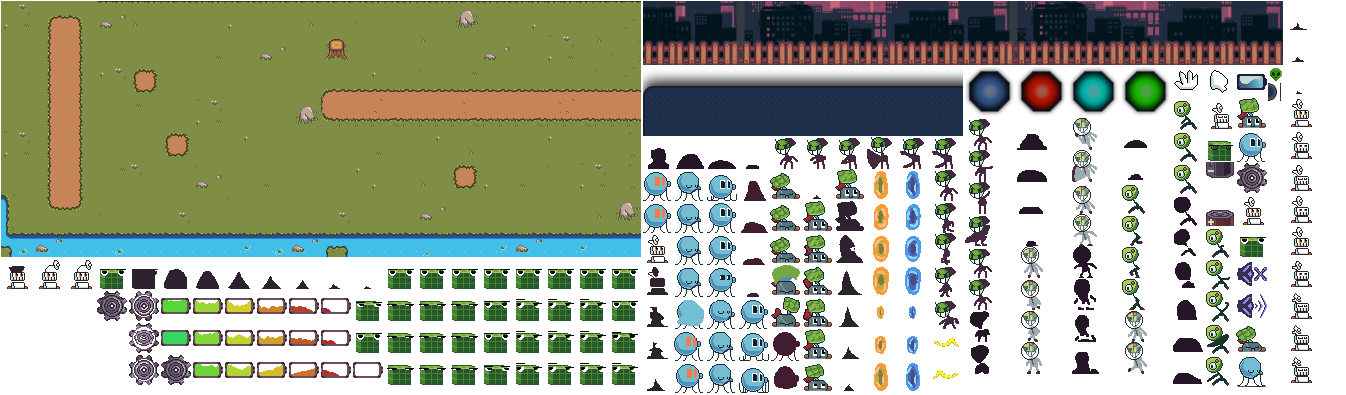
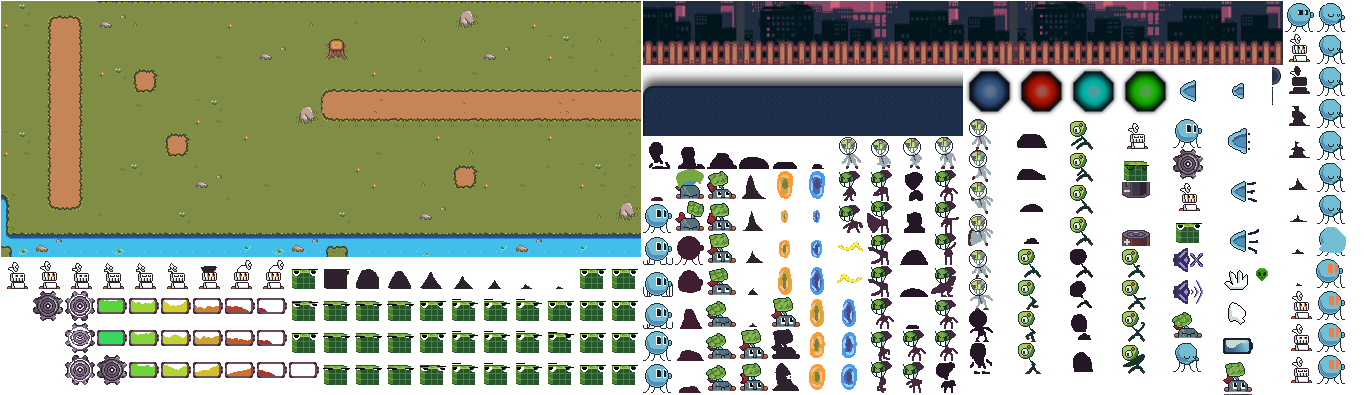
Audio animation + fix UIImage scaling

diff --git a/RvA/src/CreditsHelper.cpp b/RvA/src/CreditsHelper.cpp
@@ -12,6 +12,7 @@ struct CreditsItem {
 	bool isTitle{};
 	std::string spriteName{};
 	Color bkgColor{BLACK};
+	Vector2 iconSize;
 };
 
 auto titleColor = WHITE;
@@ -19,20 +20,20 @@ auto nameColor = Color{140, 140, 140, 255};
 
 // TODO(Gerark) - This list could be defined in data ( maybe a json file to easily edit it without recompiling )
 const std::vector<CreditsItem> creditsItems{
-	{"PROGRAMMING", titleColor, true, "scrap_idle", DARKGRAY},
+	{"PROGRAMMING", titleColor, true, "scrap_idle", DARKGRAY, {32, 32}},
 	{"Gerark", nameColor},
 	{"Erzis", nameColor},
 	{"Zazeraz", nameColor},
 	{},
-	{"PIXEL ART", titleColor, true, "solar_idle", DARKGREEN},
+	{"PIXEL ART", titleColor, true, "solar_idle", DARKGREEN, {32, 32}},
 	{"Marvin Gorner", nameColor},
 	{"Adsol", nameColor},
 	{"Cabbage", nameColor},
 	{},
-	{"CONCEPT ART", titleColor, true, "shooter_idle", Fade(RED, 0.5f)},
+	{"CONCEPT ART", titleColor, true, "shooter_idle", Fade(RED, 0.5f), {32, 32}},
 	{"yeahno", nameColor},
 	{},
-	{"MUSIC", titleColor, true, "sound_on_icon", PINK},
+	{"MUSIC", titleColor, true, "audio_enabled", PINK, {50, 50}},
 	{"Trimi3je", nameColor},
 	{"Frog Wizard", nameColor},
 };
@@ -51,9 +52,9 @@ void CreditsHelper::fillCredits(ScreenBuilder& builder, GUI& gui) {
 		if (!item.label.empty()) {
 			if (item.isTitle) {
 					builder.border({.bkgColor = std::make_pair(Fade(item.bkgColor, 0), Fade(item.bkgColor, 0.6)), .padding = {5, 0}, .hAlign = HAlign::Right});
-						builder.stack({.orientation = GUIOrientation::Horizontal, .padding = {10, 0}, .hAlign = HAlign::Right, .vAlign = VAlign::Top, .size = Vec2{150, 28}, .pos = {0, 0}, .alignContent = ContentAlign::End, .sideAlignContent = ContentAlign::Center});
+						builder.stack({.orientation = GUIOrientation::Horizontal, .padding = {10, 0}, .hAlign = HAlign::Right, .vAlign = VAlign::Top, .size = Vec2{150, 32}, .pos = {0, 0}, .alignContent = ContentAlign::End, .sideAlignContent = ContentAlign::Center});
 							builder.text({.text = item.label.c_str(), .fontSize = 24, .color = item.color, .hAlign = HAlign::Right});
-							builder.image({.pos = {0, 0}, .size = Vector2{32, 32}, .sprite = Animation::createAnimation({ gui.getAtlas().getSpriteInfo(item.spriteName.c_str()), 0.1f }), .fit = Fit::Ignore });
+							builder.image({.pos = {0, 0}, .size = item.iconSize, .sprite = Animation::createAnimation({ gui.getAtlas().getSpriteInfo(item.spriteName.c_str()), 0.1f }), .fit = Fit::Contain });
 						builder.end();
 					builder.end();
 			} else {

diff --git a/RvA/src/GUI/GUI.cpp b/RvA/src/GUI/GUI.cpp
@@ -145,7 +145,7 @@ void GUI::drawWidget(UINode& node, Screen& screen) {
 				} else if constexpr (std::is_same_v<T, Animation>) {
 					Animation& animation = arg;
 					auto frame = animation.getSpriteInfo()->frames;
-					m_atlas.drawSprite(animation.getSpriteInfo(), {node.finalRect.x, node.finalRect.y}, {(float)frame->width, (float)frame->height}, animation.getCurrentFrame(), image.flip);
+					m_atlas.drawSprite(animation.getSpriteInfo(), {node.finalRect.x, node.finalRect.y}, {node.finalRect.width, node.finalRect.height}, animation.getCurrentFrame(), image.flip);
 				} else {
 					static_assert(sizeof(T) == 0, "Non-exhaustive visitor!");
 				}

diff --git a/RvA/assets/split_image.py b/RvA/assets/split_image.py
@@ -1,13 +1,19 @@
 import os
 from PIL import Image
 import sys
+import shutil
 
 filename = sys.argv[1]
 prefix = sys.argv[2]
 width = sys.argv[3]
+cleanup = sys.argv[4].lower()
 
 FRAME_WIDTH = int(width)
 OUTPUT_FOLDER = "frames_output"
+
+if cleanup == "y" and os.path.exists(OUTPUT_FOLDER):
+    print(f"Cleaning up {OUTPUT_FOLDER}...")
+    shutil.rmtree(OUTPUT_FOLDER)
 
 def split_image_into_frames(input_path, output_prefix):
     os.makedirs(OUTPUT_FOLDER, exist_ok=True)
